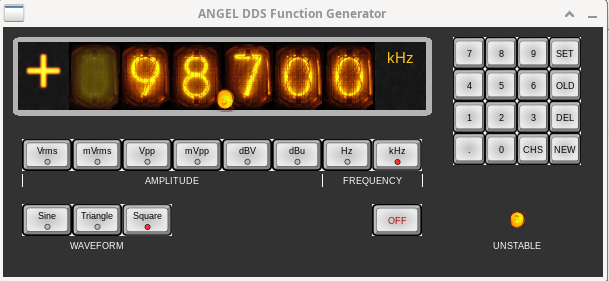
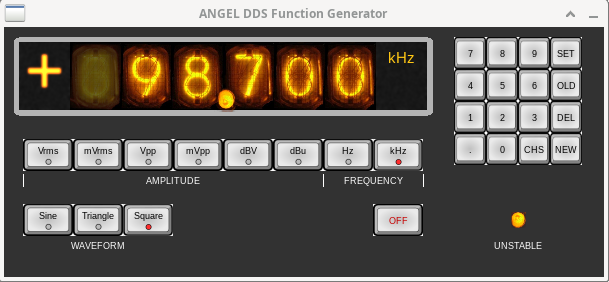
More screenshot images.

diff --git a/README.md b/README.md
@@ -168,7 +168,9 @@ with code written in Algol 68 over pipes. The following helper programs exist:
 - TMCUSBIO (`tmcusbio.cpp`) is responsible for communicating with test and measurement devices
   over USB. As with the above "helpers", the A68 code writes what it wants to send to stdin of
   TMCUSBIO and reads responses from its stdout. TMCUSBIO is linked with libusb and implements
-  necessary parts of the TMC protocol itself. (Note: communicating reliably with USB TMC devices
+  necessary parts of the TMC protocol itself. 
+
+  > NOTE: Communicating reliably with USB TMC devices
   has been by far the most problematic part of this whole project. Initially, the Linux kernel USBTMC
   driver was used, with A68 code simply opening `/dev/usbtmc<n>` and writing to / reading from
   that. This could work without error for thousands of transactions, then, on the next open,
@@ -281,3 +283,30 @@ At present, there is one generally useful tool:
   Markdown whenever it is used, and can process this (via Pandoc) to also produce
   HTML or PDF files (the latter requires that LaTeX is also installed).
 
+## More Screenshots
+
+---
+
+![Function Generator and Multimeter, 1V RMS amplitude](images/afg-dm3k1.png "Function Generator and Multimeter, 1V RMS amplitude")
+
+---
+
+![Function Generator and Multimeter, 2.5V RMS amplitude](images/afg-dm3k2.png "Function Generator and Multimeter, 2.5V RMS amplitude")
+
+---
+
+![Function Generator and Multimeter, 12,345Hz frequency](images/afg-dm3k3.png "Function Generator and Multimeter, 12,345Hz frequency")
+
+---
+
+![Function Generator and Multimeter, 33kHz frequency](images/afg-dm3k4.png "Function Generator and Multimeter, 33kHz frequency")
+
+---
+
+![Function Generator and Multimeter, frequency and period](images/afg-dm3k5.png "Function Generator and Multimeter, frequency and period")
+
+---
+
+![Function Generator, setting a new frequency with the keypad](images/afg-dm3k7.png "Function Generator, setting a new frequency with the keypad")
+
+---
